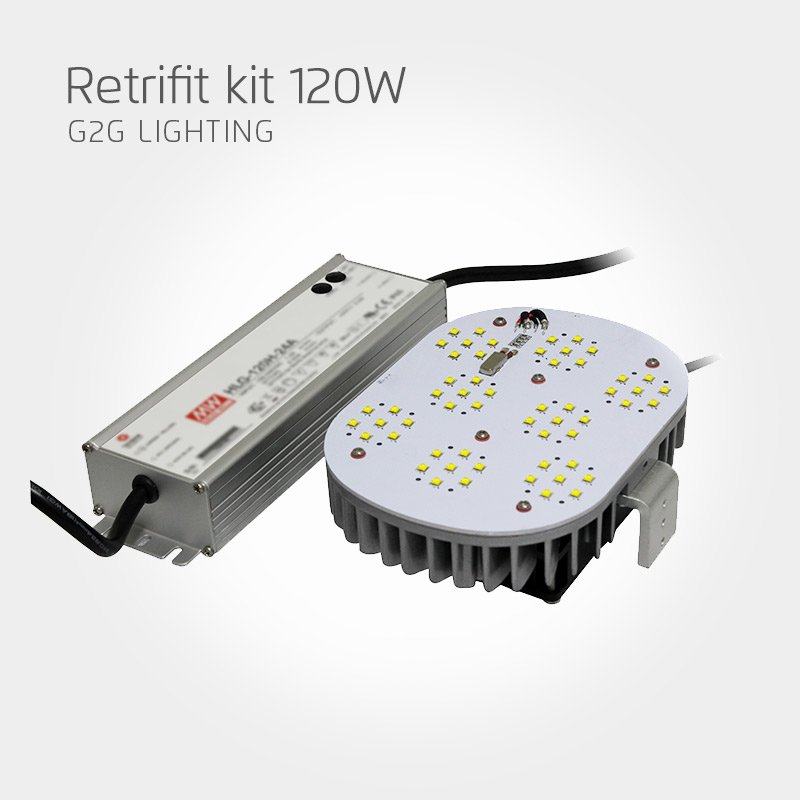
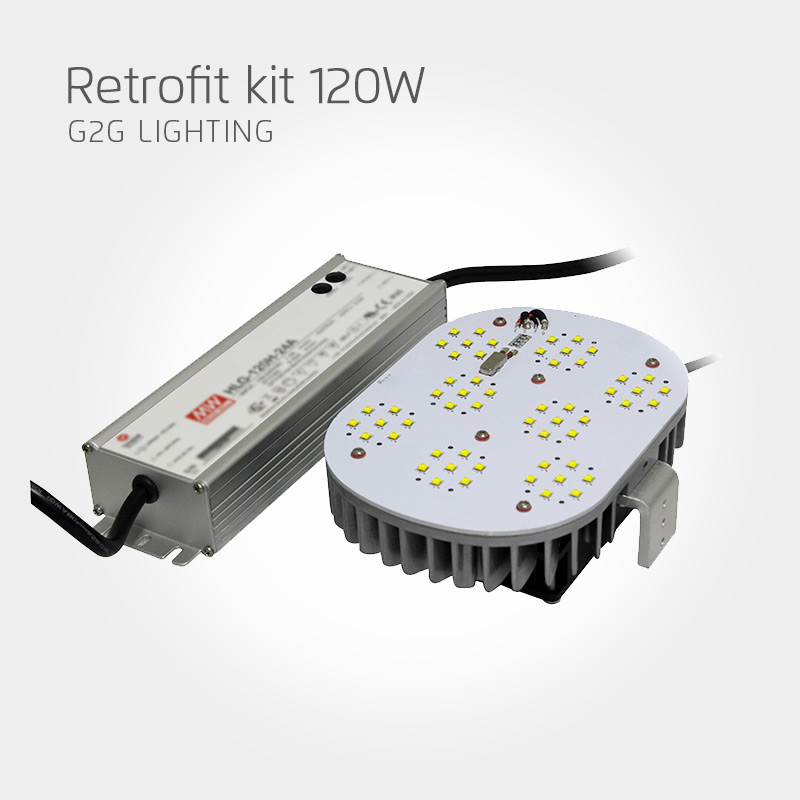
修改字体标示

Changed region(s): [[0.1875, 0.0625, 0.5312, 0.1562]]

diff --git a/js/app.js b/js/app.js
@@ -147,9 +147,9 @@
 			{pid:'signlighting', cid:'trident', img: 'sign_box/trident_sf.jpg', href: 'Trident-SF.html'},
 			{pid:'signlighting', cid:'trident-stick', img: 'sign_box/stick_df.jpg', href: 'trident_stick_df.html'},
 			{pid:'signlighting', cid:'trident-stick', img: 'sign_box/stick_sf.jpg', href: 'trident_stick_sf.html'},
-			{pid:'signlighting', cid:'arraybracket', img: 'sign_box/trident_sf.jpg', href: 'Trident-SF.html'},
-			{pid:'signlighting', cid:'tridentbracket', img: 'sign_box/stick_df.jpg', href: 'trident_stick_df.html'},
-			{pid:'signlighting', cid:'hosocket', img: 'sign_box/stick_sf.jpg', href: 'Ho_socket.html'},
+			{pid:'signlighting', cid:'arraybracket', img: 'accessories/arraybracket.jpg', href: 'arraybracket.html'},
+			{pid:'signlighting', cid:'tridentbracket', img: 'accessories/tridentbracket.jpg', href: 'tridentbracket.html'},
+			{pid:'signlighting', cid:'hosocket', img: 'accessories/hosocket.jpg', href: 'Ho_socket.html'},
 
 			{pid:'outdoorlighting', cid:'oona-slim', img: 'wall_washer/oona_slim.jpg', href: 'oona_slim_wall_washer.html'},
 			{pid:'outdoorlighting', cid:'i_series', img: 'wall_washer/lww_1.jpg', href: 'Wall-Washer-I-Series.html'},
@@ -215,9 +215,9 @@
 			{pid:'sign', cid:'trident', img: 'sign_box/trident_sf.jpg', href: 'Trident-SF.html'},
 			{pid:'sign', cid:'trident-stick', img: 'sign_box/stick_df.jpg', href: 'trident_stick_df.html'},
 			{pid:'sign', cid:'trident-stick', img: 'sign_box/stick_sf.jpg', href: 'trident_stick_sf.html'},
-			{pid:'accessories', cid:'arraybracket', img: 'sign_box/trident_sf.jpg', href: 'Trident-SF.html'},
-			{pid:'accessories', cid:'tridentbracket', img: 'sign_box/stick_df.jpg', href: 'trident_stick_df.html'},
-			{pid:'accessories', cid:'hosocket', img: 'sign_box/stick_sf.jpg', href: 'Ho_socket.html'},
+			{pid:'accessories', cid:'arraybracket', img: 'accessories/arraybracket.jpg', href: 'arraybracket.html'},
+			{pid:'accessories', cid:'tridentbracket', img: 'accessories/tridentbracket.jpg', href: 'tridentbracket.html'},
+			{pid:'accessories', cid:'hosocket', img: 'accessories/hosocket.jpg', href: 'Ho_socket.html'},
 
 
 			{pid:'wall', cid:'oona-slim', img: 'wall_washer/oona_slim.jpg', href: 'oona_slim_wall_washer.html'},

diff --git a/index.html b/index.html
@@ -126,9 +126,9 @@
                       <div class="col-xs-12 col-sm-2"><a href="#">About US</a></div>
                       <div class="col-xs-12 col-sm-2"><a href="#">Products</a></div>
                       <div class="col-xs-12 col-sm-2"><a href="#">Service</a></div>
-                      <div class="col-xs-12 col-sm-2"><a href="#">Download</a></div>
+                      <div class="col-xs-12 col-sm-2"><a href="#">Downloads</a></div>
                       <div class="col-xs-12 col-sm-2"><a href="#">Video</a></div>
-                      <div class="col-xs-12 col-sm-2"><a href="#">Contact Us</a></div>
+                      <div class="col-xs-12 col-sm-2"><a href="#">Contact</a></div>
                  </div>
               </div>
               <div class="container">
@@ -155,7 +155,7 @@
               </div>
               <div class="container">
                      <div class="footLogo">
-                            <img class="sign0" src="images/footlogo.png" >
+                            <img class="sign0" src="images/logofoot.png" >
                      </div>
 
               </div>

diff --git a/Ho_socket.html b/Ho_socket.html
@@ -1,4 +1,4 @@
-<div class="product-details margit-top110">
+<div class="product-details bracket">
 	<div class="container">
 		<div>
 			<img class="img-responsive" src="images/product-details/sign-box/Ho_socket/Ho_Socket.jpg" alt="">
@@ -12,10 +12,6 @@
 			</div>
 		</div>
 
-		<h3 class="specification">LED MODULES DIMENSIONS</h3>
-		<div>
-			<img class="img-responsive" src="images/product-details/sign-box/ArRay Lighting System/ARRAY-B-2.jpg" alt="">
-		</div>
 
 	</div>
 </div>

diff --git a/download.html b/download.html
@@ -1,6 +1,6 @@
 <div class="SupportBg">
 	<div class="container">
-		<h2 class="pageTitle">Our Support</h2>
+		<h2 class="pageTitle">Support</h2>
 		<p class="sectitle">
 			Explore the technology that sets G2G apart. To learn more, view our downloadable catalogues, <br>
 			manuals and installation guides for the most up to date information on our products.

diff --git a/css/main.css b/css/main.css
@@ -1,3 +1,6 @@
+.bracket{
+	margin-bottom:80px;
+}
 .signlogo{
 	float:left;
 	margin-left:10px;
